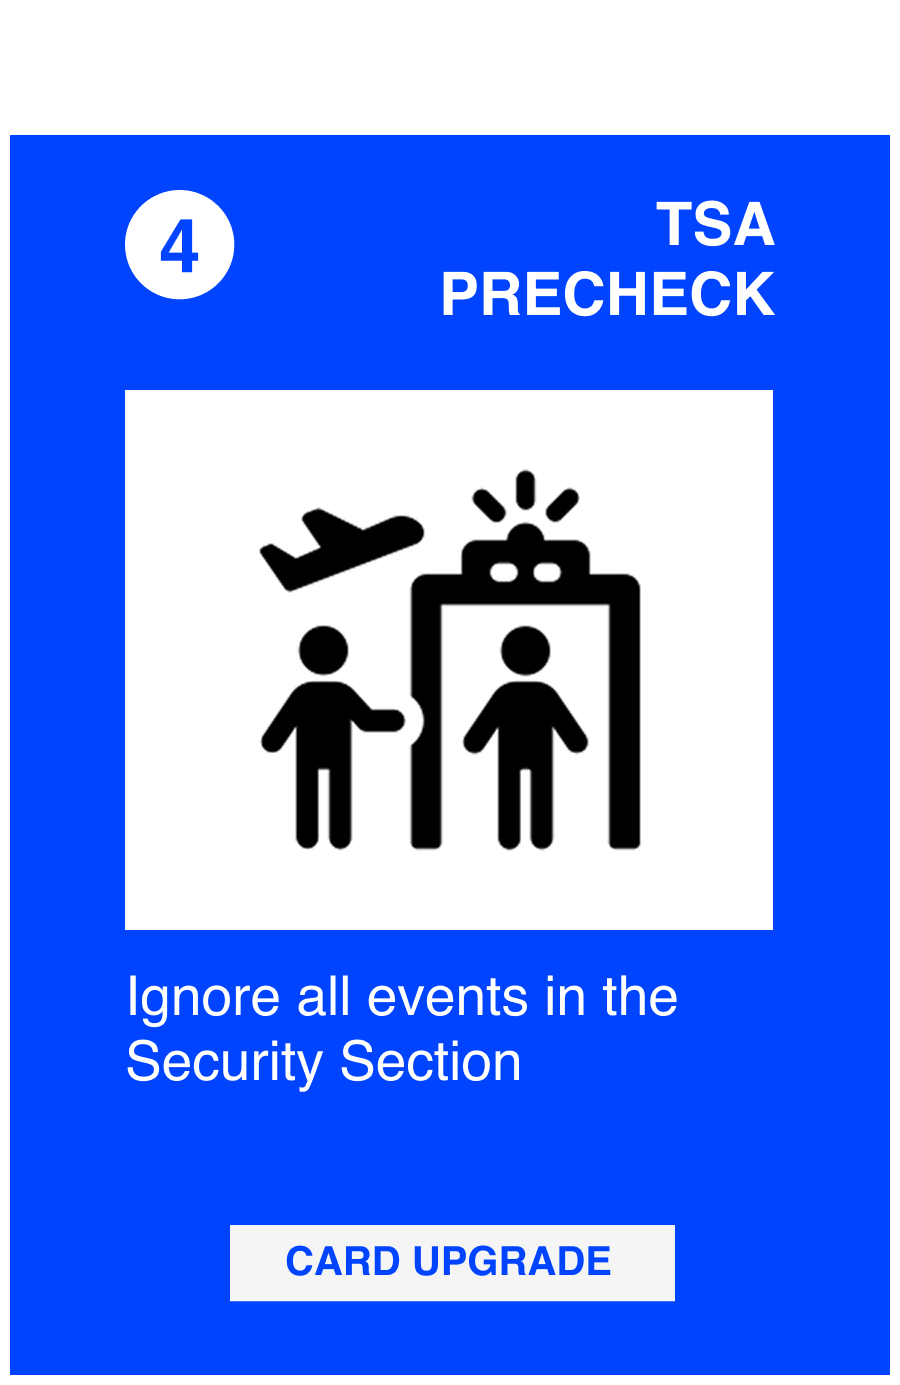
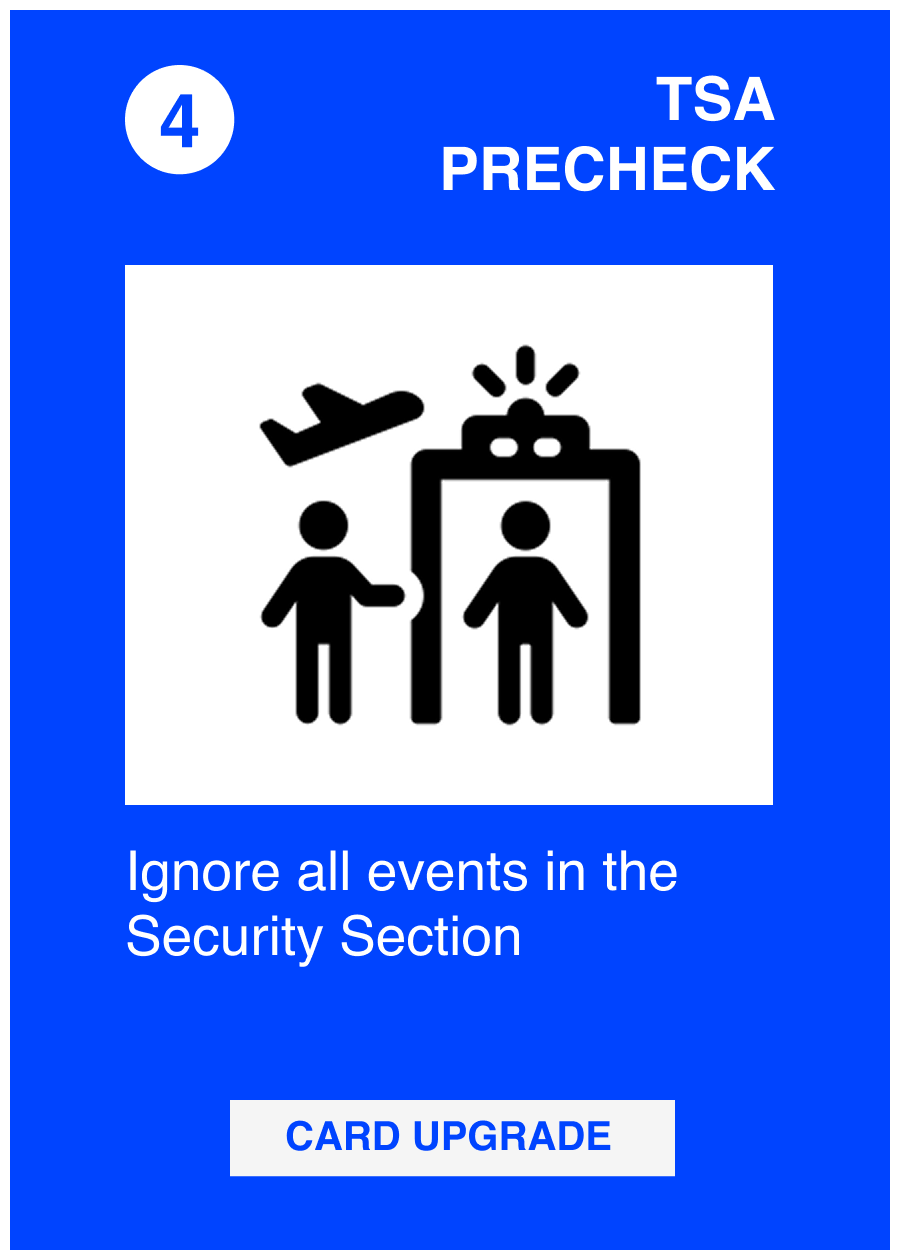
Market view now ONLY shows market (no hand), update TSA card
Changes:
- Market view (buy phase) now ONLY shows market - player hand hidden
- Players can focus on purchasing without seeing their hand
- After purchase/skip, automatically shows hand for play phase
- Market back card now same size as other cards (120px width)
- Updated TSAPrecheck.png to version without white bar
- Removed "OPEN MARKET" button (market auto-shows in buy phase)
- Cleaner separation between buy and play phases

Market layout:
- Upgrades (5 cards, 30% opacity if unaffordable)
- Market Draw (back card + skip button OR 2 revealed cards)
- Patience display (visible during market view)

Changed region(s): [[0.0, 0.0, 0.9956, 0.8048], [0.2489, 0.8667, 0.7467, 0.9595]]

diff --git a/src/components/FloatingHand/FloatingHand.jsx b/src/components/FloatingHand/FloatingHand.jsx
@@ -18,7 +18,6 @@ export function FloatingHand({
 }) {
   if (!isCurrentPlayer) return null;
 
-  const [showMarket, setShowMarket] = useState(false);
   const [marketDrawRevealed, setMarketDrawRevealed] = useState(false);
 
   // Calculate patience tokens
@@ -34,31 +33,21 @@ export function FloatingHand({
 
   const handleBuyUpgrade = (upgrade) => {
     onBuyUpgrade(upgrade);
-    setShowMarket(false);
     setMarketDrawRevealed(false);
   };
 
   const handleSelectMarketCard = (card) => {
     // Player selected one of the revealed market cards
     setMarketDrawRevealed(false);
-    setShowMarket(false);
-  };
-
-  const handleOpenMarket = () => {
-    if (turnPhase === 'buy') {
-      setShowMarket(true);
-      setMarketDrawRevealed(false);
-    }
   };
 
   const handleSkipMarket = () => {
-    setShowMarket(false);
     setMarketDrawRevealed(false);
     onSkipPhase(); // Skip buy phase
   };
 
-  // MARKET VIEW (Buy Phase)
-  if (showMarket && turnPhase === 'buy') {
+  // MARKET VIEW (Buy Phase) - ONLY show market, no hand
+  if (turnPhase === 'buy') {
     return (
       <div className={styles.container}>
         <div className={styles.handPanel}>
@@ -97,10 +86,12 @@ export function FloatingHand({
               {!marketDrawRevealed ? (
                 <>
                   <div
-                    className={styles.marketBackWrapper}
+                    className={styles.cardWrapper}
                     onClick={handleMarketDrawClick}
                   >
-                    <CardBack type="market" />
+                    <div className={styles.marketBackCard}>
+                      <img src="/assets/cards/MarketBack.png" alt="Market Deck" />
+                    </div>
                   </div>
                   <button className={styles.skipButton} onClick={handleSkipMarket}>
                     SKIP
@@ -185,17 +176,6 @@ export function FloatingHand({
         {/* Middle - Turn Actions */}
         <div className={styles.actionsSection}>
           <h3 className={styles.sectionTitle}>ACTIONS</h3>
-
-          {turnPhase === 'buy' && (
-            <>
-              <button className={styles.actionButton} onClick={handleOpenMarket}>
-                OPEN MARKET
-              </button>
-              <button className={styles.secondaryButton} onClick={onSkipPhase}>
-                SKIP BUY
-              </button>
-            </>
-          )}
 
           {turnPhase === 'play' && (
             <>

diff --git a/src/components/FloatingHand/FloatingHand.module.css b/src/components/FloatingHand/FloatingHand.module.css
@@ -217,12 +217,26 @@
   align-items: flex-end;
 }
 
-.marketBackWrapper {
+.marketBackCard {
+  width: 120px;
+  border-radius: 0.5rem;
+  overflow: hidden;
+  cursor: pointer;
   transition: transform 0.2s;
+  box-shadow: 0 2px 8px rgba(0, 0, 0, 0.3);
+  border: 2px solid #1a1a1a;
 }
 
-.marketBackWrapper:hover {
+.marketBackCard:hover {
   transform: translateY(-8px);
+  box-shadow: 0 4px 16px rgba(255, 215, 0, 0.5);
+  border-color: #FFD700;
+}
+
+.marketBackCard img {
+  width: 100%;
+  height: auto;
+  display: block;
 }
 
 .skipButton {
